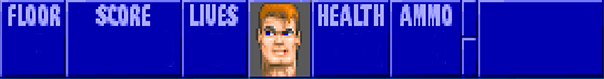
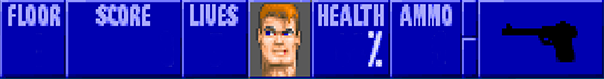
Added HUD

Changed region(s): [[0.8046, 0.2532, 0.9834, 0.8101], [0.596, 0.3797, 0.6556, 0.8608]]

diff --git a/Main.js b/Main.js
@@ -11,6 +11,9 @@ const resolution = 1;
 const Gamewidth  = 640;
 const Gameheight = 480;
 
+const pistoCoolDown = fps / 2;
+let lastShot = pistoCoolDown;
+
 let moving = "";
 let rotating = "";
 
@@ -57,12 +60,15 @@ window.onload = setup();
 // Runs before at the beginning of the program
 function setup() {
 
-    // Initialises player
-    player = new Player(map.screen, 300, 265);
+
 
     // Initialises both canvases
     map  = new Map(document.getElementById("Map"));
     game = new Game(document.getElementById("Game"));
+
+    // Initialises player
+    player = new Player(map.screen, 300, 265);
+
     HUD  = new Hud(game.screen, player);
 
     // Changes the size of the canvas
@@ -78,7 +84,6 @@ function setup() {
 
     // Begins the game
     setInterval(draw, 1000 / fps);
-    // draw();
 
     // setTimeout(() => {
     //     draw();
@@ -98,11 +103,15 @@ function setup() {
         }
     }
 
+    // draw();
+
+
     // window.onload needs a return
     return null;
 }
 
 function draw() {
+    lastShot++;
     // Changes the background of the canvas
     map.screen.background("#555");
     game.screen.background("#000");
@@ -115,6 +124,8 @@ function draw() {
     // HUD 
     getImage(17, 393, 0, 604, 604, 79, "HUD");
     getImage(0, 0, 0, 640, 640, 480, "HUDCase")
+    HUD.draw();
+
 }
 
 function keyPressed(event) {
@@ -185,8 +196,11 @@ function getImage(x, y, xImg, w, wImg, h, id) {
 }
 
 function mouseDown(event) {
-
-    const loop = setInterval( () => {game.gunAnimation(loop)}, 1000 / 15);
+    if (player.ammo > 0 && lastShot > pistoCoolDown) {
+        lastShot = 0;
+        player.ammo--;
+        const loop = setInterval( () => {game.gunAnimation(loop)}, 1000 / 15);    
+    }
 }
 
 function getCords(event) {
@@ -205,22 +219,56 @@ function passable(sprite) {
             return true;
             break;
         case "foodPack":
-            player.health += 5;
+            if (player.health < 100) {
+                player.health = player.health + 10 >= 100 ? 100 : player.health + 10;
+                sprites[sprites.indexOf(sprite)].x = 0;
+            }
             return true;
             break;
         case "ammoPack":
-            player.ammo += 5;
+            if (player.ammo  < 99) {
+                player.ammo = player.ammo + 9 >= 99 ? 99 : player.ammo + 9;
+                sprites[sprites.indexOf(sprite)].x = 0;
+            }
             return true;
             break;
         case "medPack":
-            player.health += 10;
-            document.getElementById("health").textContent = "Health: " + player.health;
+            if (player.health < 100) {
+                player.health = player.health + 25 >= 100 ? 100 : player.health + 25;
+                
+                sprites[sprites.indexOf(sprite)].x = 0;
+            }
+            return true;
+            break;
+
+        case "stew":
+            if (player.health < 100) {
+                player.health = player.health + 4 >= 100 ? 100 : player.health + 4;
+                sprites[sprites.indexOf(sprite)].x = 0;
+            }
+            return true;
+            break;
+
+        case "crown":
+            player.score += 5000;
             sprites[sprites.indexOf(sprite)].x = 0;
             return true;
             break;
-        case "stew":
-            player.health += 3;
-            document.getElementById("health").textContent = "Health: " + player.health;
+
+        case "chest":
+            player.score += 1000;
+            sprites[sprites.indexOf(sprite)].x = 0;
+            return true;
+            break;
+
+        case "cross":
+            player.score += 100;
+            sprites[sprites.indexOf(sprite)].x = 0;
+            return true;
+            break;
+
+        case "chalice":
+            player.score += 500;
             sprites[sprites.indexOf(sprite)].x = 0;
             return true;
             break;

diff --git a/index.html b/index.html
@@ -5,6 +5,7 @@
     <title>Ray Casting</title>
     <script src="WolfensteinMap.js"></script>
     <script src="Screen.js"></script>
+    <script src="Hud.js"></script>
     <script src="Ray.js"></script>
     <script src="Game.js"></script>
     <script src="Map.js"></script>
@@ -17,7 +18,6 @@
         <canvas id="Map"></canvas>
     </div>
     <canvas id="Game"></canvas>
-    <h1 id="health">Health: 0</h1>
 
     <img hidden id="greyStone"         src="Texture/walls/greystone/greystone.png"         height="64" width="64"/>
     <img hidden id="greyStoneBanner"   src="Texture/walls/greystone/greystonebanner.png"   height="64" width="64"/>
@@ -98,8 +98,20 @@
     <img hidden id="guardStandLeft"        src="sprites/enemies/Guard/standing/guardstandleft.png"        height="64" width="64"/>
     <img hidden id="guardStandRight"       src="sprites/enemies/Guard/standing/guardstandright.png"       height="64" width="64"/>
 
-    <img hidden id="HUD"     src="HUD/HUD.png"     height="64" width="64"/>
+    <img hidden id="HUD"     src="HUD/HUD.png"     height="79" width="604"/>
     <img hidden id="HUDCase" src="HUD/HUDCase.png" height="480" width="640"/>
+
+    <img hidden id="0" src="HUD/numbers/0.png" height="16" width="8"/>
+    <img hidden id="1" src="HUD/numbers/1.png" height="16" width="8"/>
+    <img hidden id="2" src="HUD/numbers/2.png" height="16" width="8"/>
+    <img hidden id="3" src="HUD/numbers/3.png" height="16" width="8"/>
+    <img hidden id="4" src="HUD/numbers/4.png" height="16" width="8"/>
+    <img hidden id="5" src="HUD/numbers/5.png" height="16" width="8"/>
+    <img hidden id="6" src="HUD/numbers/6.png" height="16" width="8"/>
+    <img hidden id="7" src="HUD/numbers/7.png" height="16" width="8"/>
+    <img hidden id="8" src="HUD/numbers/8.png" height="16" width="8"/>
+    <img hidden id="9" src="HUD/numbers/9.png" height="16" width="8"/>
+
 
 
     <script src="Main.js"></script>

diff --git a/Hud.js b/Hud.js
@@ -5,6 +5,30 @@ class Hud {
     }
 
     draw() {
+
+        // Floor
+        this.drawNumber(45, 425, 1);
+
+        // Score 
+        this.drawNumber(175, 425, player.score);
+
+        // Lives 
+        this.drawNumber(225, 426, player.lives);
+
+        // Health
+        this.drawNumber(365, 425, player.health);
+
+        // Ammo
+        this.drawNumber(450, 425, player.ammo);
+
+    }
+
+    drawNumber(x, y, number) {
+        const num = `${number}`.split("").reverse().join("");
+
+        for (let i = 0; i < num.length; i++) {
+            getImage(x - (i * 16), y, 0, 8, 16, 32, num[i])
+        }
         
     }
 }

diff --git a/Player.js b/Player.js
@@ -18,7 +18,8 @@ class Player {
         }
 
 
-        this.health = 0;
+        this.health = 100;
+        this.lives  = 3;
         this.ammo   = 8;
         this.score  = 0;
 
@@ -197,7 +198,8 @@ class Player {
     }
 
     open() {
-        for (const ray of player.rays) {
+        for (let i = Math.floor(player.rays.length / 3); i < Math.floor(2 * player.rays.length / 3); i++) {
+            const ray = player.rays[i];
             if (`${World[ray.distance()[2].y][ray.distance()[2].x]}`[0] === '4' && ray.distance()[0] < 2) {
                 const x = ray.distance()[2].x;
                 const y = ray.distance()[2].y;
